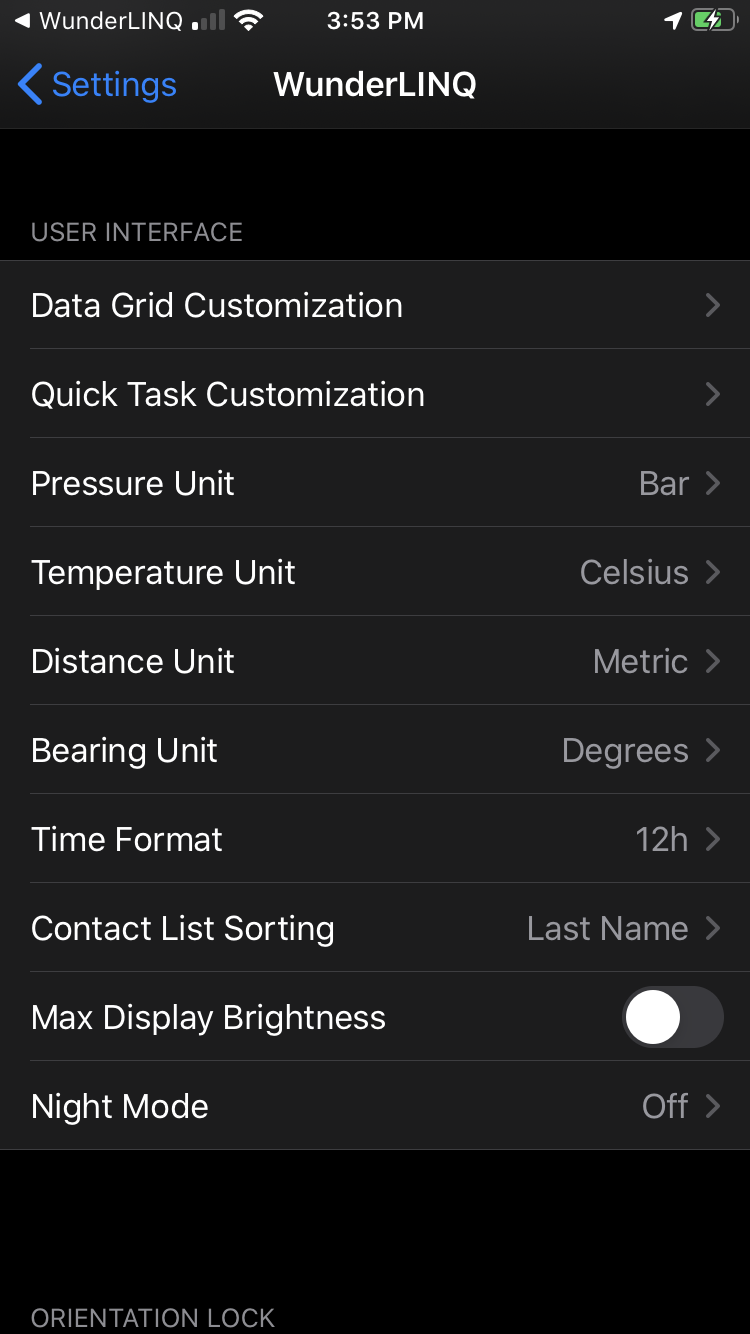
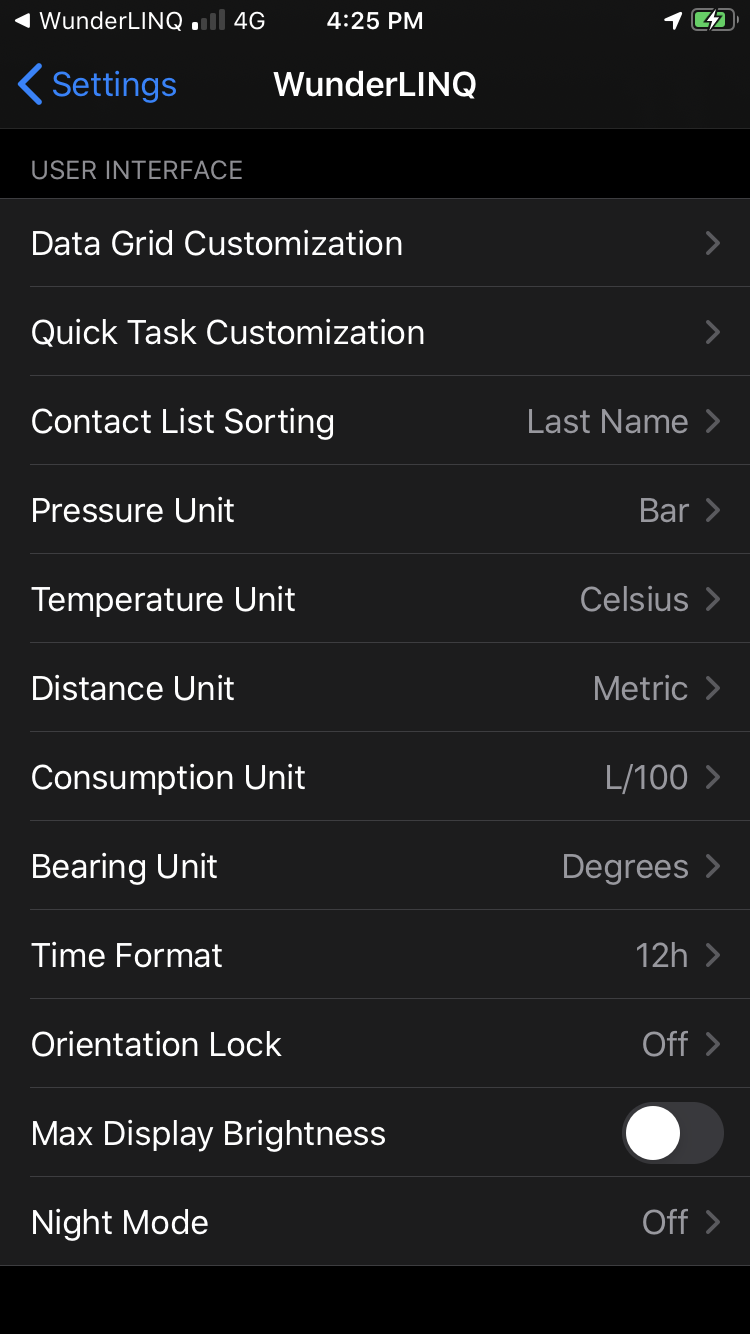
Update for new Consumption Unit setting

diff --git a/docs/en/index-android.html b/docs/en/index-android.html
@@ -989,6 +989,10 @@
                                         <td>Select your preferred distance unit for display.</td>
                                     </tr>
                                     <tr>
+                                        <td><strong>Consumption Unit:</strong></td>
+                                        <td>Select your preferred fuel consumption unit for display.</td>
+                                    </tr>
+                                    <tr>
                                         <td><strong>Bearing Unit:</strong></td>
                                         <td>Select your preferred bearing unit for compass display.</td>
                                     </tr>

diff --git a/docs/en/index-ios.html b/docs/en/index-ios.html
@@ -986,6 +986,10 @@
                                         <td>Select your preferred distance unit for display.</td>
                                     </tr>
                                     <tr>
+                                        <td><strong>Consumption Unit:</strong></td>
+                                        <td>Select your preferred fuel consumption unit for display.</td>
+                                    </tr>
+                                    <tr>
                                         <td><strong>Bearing Unit:</strong></td>
                                         <td>Select your preferred bearing unit for compass display.</td>
                                     </tr>

diff --git a/templates/index-android.html b/templates/index-android.html
@@ -989,6 +989,10 @@
                                         <td>APP_SETTINGS_DISTANCE_DESC</td>
                                     </tr>
                                     <tr>
+                                        <td><strong>APP_SETTINGS_CONSUMPTION_TITLE</strong></td>
+                                        <td>APP_SETTINGS_CONSUMPTION_DESC</td>
+                                    </tr>
+                                    <tr>
                                         <td><strong>APP_SETTINGS_BEARING_TITLE</strong></td>
                                         <td>APP_SETTINGS_BEARING_DESC</td>
                                     </tr>

diff --git a/templates/index-ios.html b/templates/index-ios.html
@@ -986,6 +986,10 @@
                                         <td>APP_SETTINGS_DISTANCE_DESC</td>
                                     </tr>
                                     <tr>
+                                        <td><strong>APP_SETTINGS_CONSUMPTION_TITLE</strong></td>
+                                        <td>APP_SETTINGS_CONSUMPTION_DESC</td>
+                                    </tr>
+                                    <tr>
                                         <td><strong>APP_SETTINGS_BEARING_TITLE</strong></td>
                                         <td>APP_SETTINGS_BEARING_DESC</td>
                                     </tr>
